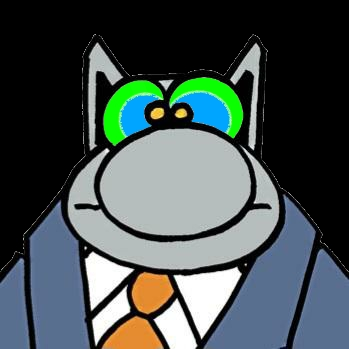
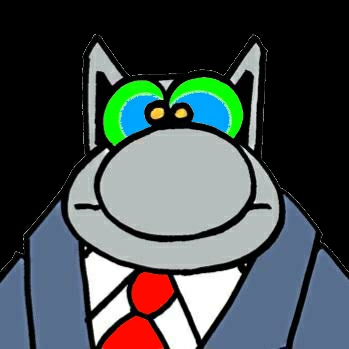
Add files via upload

Changed region(s): [[0.2865, 0.7736, 0.5158, 1.0]]

diff --git a/index_voll.html b/index_voll.html
@@ -374,7 +374,7 @@
       let nextBlinkFrame = 200;     
 
       p.preload = () => {
-        img = p.loadImage('me.jpg'); 
+        img = p.loadImage('mered.jpg'); 
       };
 
       p.setup = () => {
